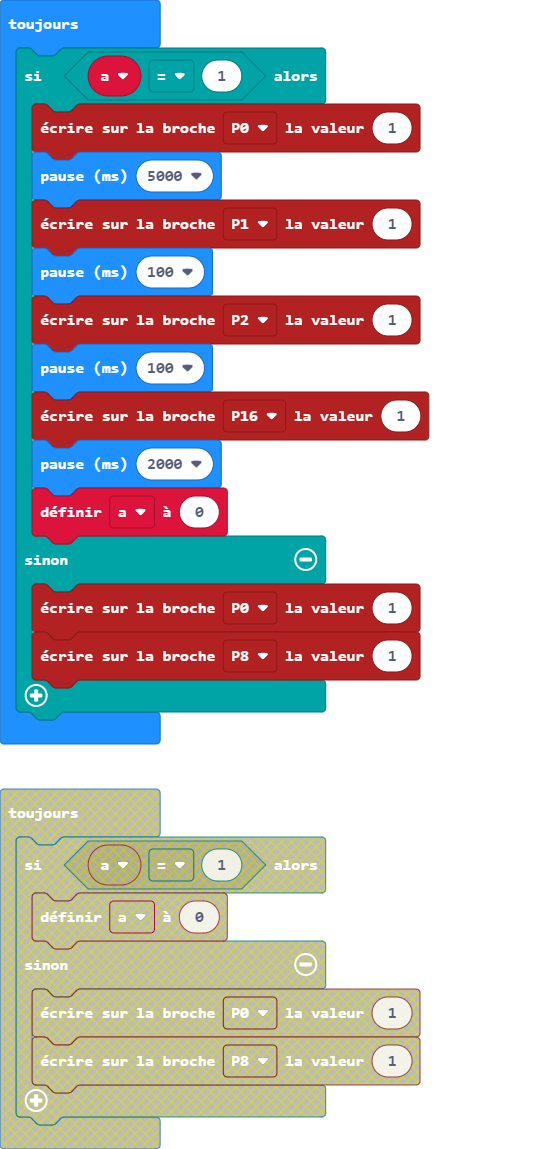
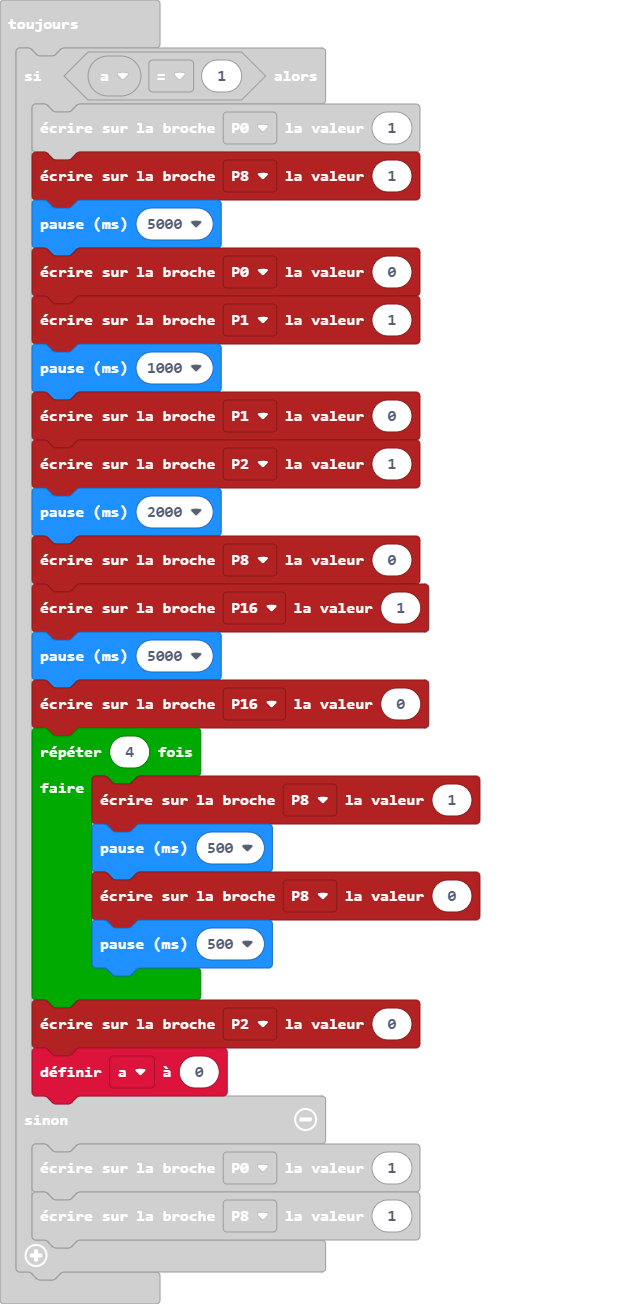
Mise à jour main.blocks, main.ts

diff --git a/main.ts b/main.ts
@@ -6,13 +6,25 @@ a = 0
 basic.forever(function () {
     if (a == 1) {
         pins.digitalWritePin(DigitalPin.P0, 1)
+        pins.digitalWritePin(DigitalPin.P8, 1)
         basic.pause(5000)
+        pins.digitalWritePin(DigitalPin.P0, 0)
         pins.digitalWritePin(DigitalPin.P1, 1)
-        basic.pause(100)
+        basic.pause(1000)
+        pins.digitalWritePin(DigitalPin.P1, 0)
         pins.digitalWritePin(DigitalPin.P2, 1)
-        basic.pause(100)
-        pins.digitalWritePin(DigitalPin.P16, 1)
         basic.pause(2000)
+        pins.digitalWritePin(DigitalPin.P8, 0)
+        pins.digitalWritePin(DigitalPin.P16, 1)
+        basic.pause(5000)
+        pins.digitalWritePin(DigitalPin.P16, 0)
+        for (let index = 0; index < 4; index++) {
+            pins.digitalWritePin(DigitalPin.P8, 1)
+            basic.pause(500)
+            pins.digitalWritePin(DigitalPin.P8, 0)
+            basic.pause(500)
+        }
+        pins.digitalWritePin(DigitalPin.P2, 0)
         a = 0
     } else {
         pins.digitalWritePin(DigitalPin.P0, 1)
